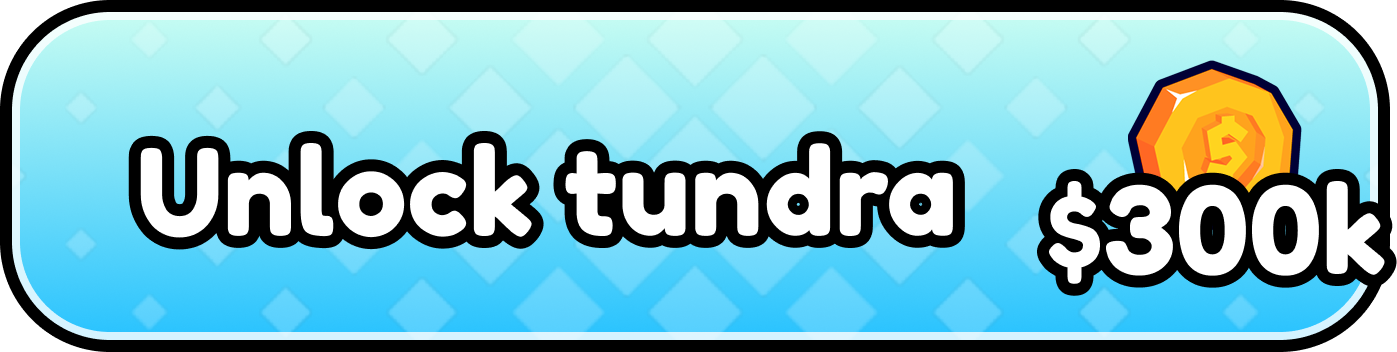
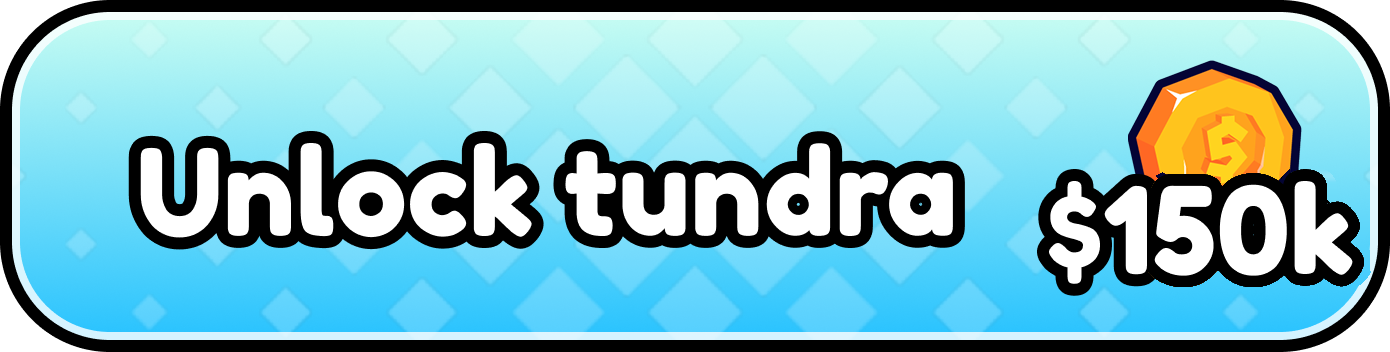
Tundra unlock $300k -> $150k (QM: Snow takes too long to reach), with its Upgrade Pen art redrawn at $150k
tools/price_splice.py made the art from QM's $100k button and the Desert button's 5.

Claude-Session: https://claude.ai/code/session_011ff2aMemgusTXXBnut8VpX

diff --git a/tools/price_splice.py b/tools/price_splice.py
@@ -1,0 +1,91 @@
+# Turns QM's "$100k" Unlock tundra art into "$150k": the first 0 becomes the "5" from
+# the Desert button (same font, same size), the last 0 and the k slide left to close the gap.
+import sys, numpy as np
+from PIL import Image
+from scipy import ndimage as nd
+
+def load(p): return np.asarray(Image.open(p).convert('RGBA')).astype(float)
+
+def fills(a, x0=1030, y0=150, y1=320):
+    r,g,b=a[...,0],a[...,1],a[...,2]
+    mx=np.maximum(np.maximum(r,g),b); mn=np.minimum(np.minimum(r,g),b)
+    w=(mn>225)&(mx-mn<25)
+    m=np.zeros_like(w); m[y0:y1, x0:]=w[y0:y1, x0:]
+    lab,n=nd.label(m)
+    comps=[]
+    for i,s in enumerate(nd.find_objects(lab)):
+        c=lab==i+1
+        if c.sum()>1500 and s[0].stop-s[0].start<110: comps.append((s[1].start, c))
+    comps.sort(key=lambda t:t[0])
+    return comps
+
+def regions(a, comps, R=16):
+    # each glyph's pixels: within R of its fill and nearer it than any other glyph's fill
+    d=np.stack([nd.distance_transform_edt(~c) for _,c in comps])
+    near=d.argmin(0)
+    r,g,b=a[...,0],a[...,1],a[...,2]
+    mx=np.maximum(np.maximum(r,g),b); mn=np.minimum(np.minimum(r,g),b)
+    ink=((mx<90)|((mn>225)&(mx-mn<30)))  # black outline or white/grey fill, not coin or sky
+    out=[]
+    for i in range(len(comps)):
+        out.append((near==i)&(d[i]<=R)&(ink|(d[i]<=2)))
+    return out
+
+base_p, five_p, out_p = sys.argv[1:4]
+A=load(base_p); D=load(five_p)
+ca=fills(A); cd=fills(D)
+print('base', [x for x,_ in ca], 'desert', [x for x,_ in cd])
+ra=regions(A, ca); rd=regions(D, cd)
+# base: $ 1 0 0 k ; desert: $ 5 0 0
+erase=nd.binary_dilation(ra[2]|ra[3]|ra[4], iterations=2)&~nd.binary_dilation(ra[0]|ra[1], iterations=1)
+out=A.copy()
+# keep the button's rim and border: scanning in from the right edge, the border (black) then the rim (light)
+H,W=erase.shape
+lum=A[...,:3].max(2); low=A[...,:3].min(2)
+for y in range(H):
+    x=W-1
+    while x>0 and A[y,x,3]<10: x-=1
+    while x>0 and lum[y,x]<60: x-=1
+    r0=x
+    while x>r0-9 and low[y,x]>150: x-=1
+    if x<W-60: erase[y,x+1:]=False
+# background per row: median of the clean strip between the words and the price
+strip=A[:, 965:1035, :3]
+bg=np.median(strip, axis=1)
+H,W=erase.shape
+for x in range(W):
+    col=erase[:,x]
+    if not col.any(): continue
+    for y in np.nonzero(col)[0]:
+        # under the coin: carry the coin's colour down; elsewhere the sky
+        yy=y-1
+        while yy>0 and erase[yy,x]: yy-=1
+        p=A[yy,x]
+        if y-yy<20 and p[3]>200 and np.abs(p[:3]-bg[yy]).sum()>60: out[y,x,:3]=out[yy,x,:3]
+        else: out[y,x,:3]=bg[y]
+        out[y,x,3]=255
+def stamp(src, mask, dx, dy):
+    ys,xs=np.nonzero(mask)
+    out[ys+dy, xs+dx]=src[ys,xs]
+x5=ca[2][1]; # left of the first 0 in base
+ys,xs=np.nonzero(ca[2][1]); top0=ys.min(); left0=xs.min()
+ys5,xs5=np.nonzero(cd[1][1]); top5=ys5.min(); left5=xs5.min()
+ysd0,_=np.nonzero(cd[2][1])
+# align the 5 with the desert 0's top -> base 0's top
+dy=top0-ysd0.min(); dx=left0-left5
+w5=xs5.max()-left5+1
+w0=xs.max()-left0+1
+shift=-(w0-w5)
+print('5 at', left5+dx, 'shift', shift, 'dy', dy)
+stamp(A, ra[3], shift, 0)
+stamp(A, ra[4], shift, 0)
+stamp(D, rd[1], dx, dy)
+# close pinholes where neighbouring outlines used to merge
+ink=np.zeros_like(erase)
+for m,sx,sy in ((ra[0],0,0),(ra[1],0,0),(ra[3],shift,0),(ra[4],shift,0)):
+    ys,xs=np.nonzero(m); ink[ys+sy,xs+sx]=True
+ys,xs=np.nonzero(rd[1]); ink[ys+dy,xs+dx]=True
+holes=nd.binary_closing(ink, iterations=3)&~ink&erase
+out[holes,:3]=0; out[holes,3]=255
+print('holes filled', holes.sum())
+Image.fromarray(out.clip(0,255).astype(np.uint8),'RGBA').save(out_p)
